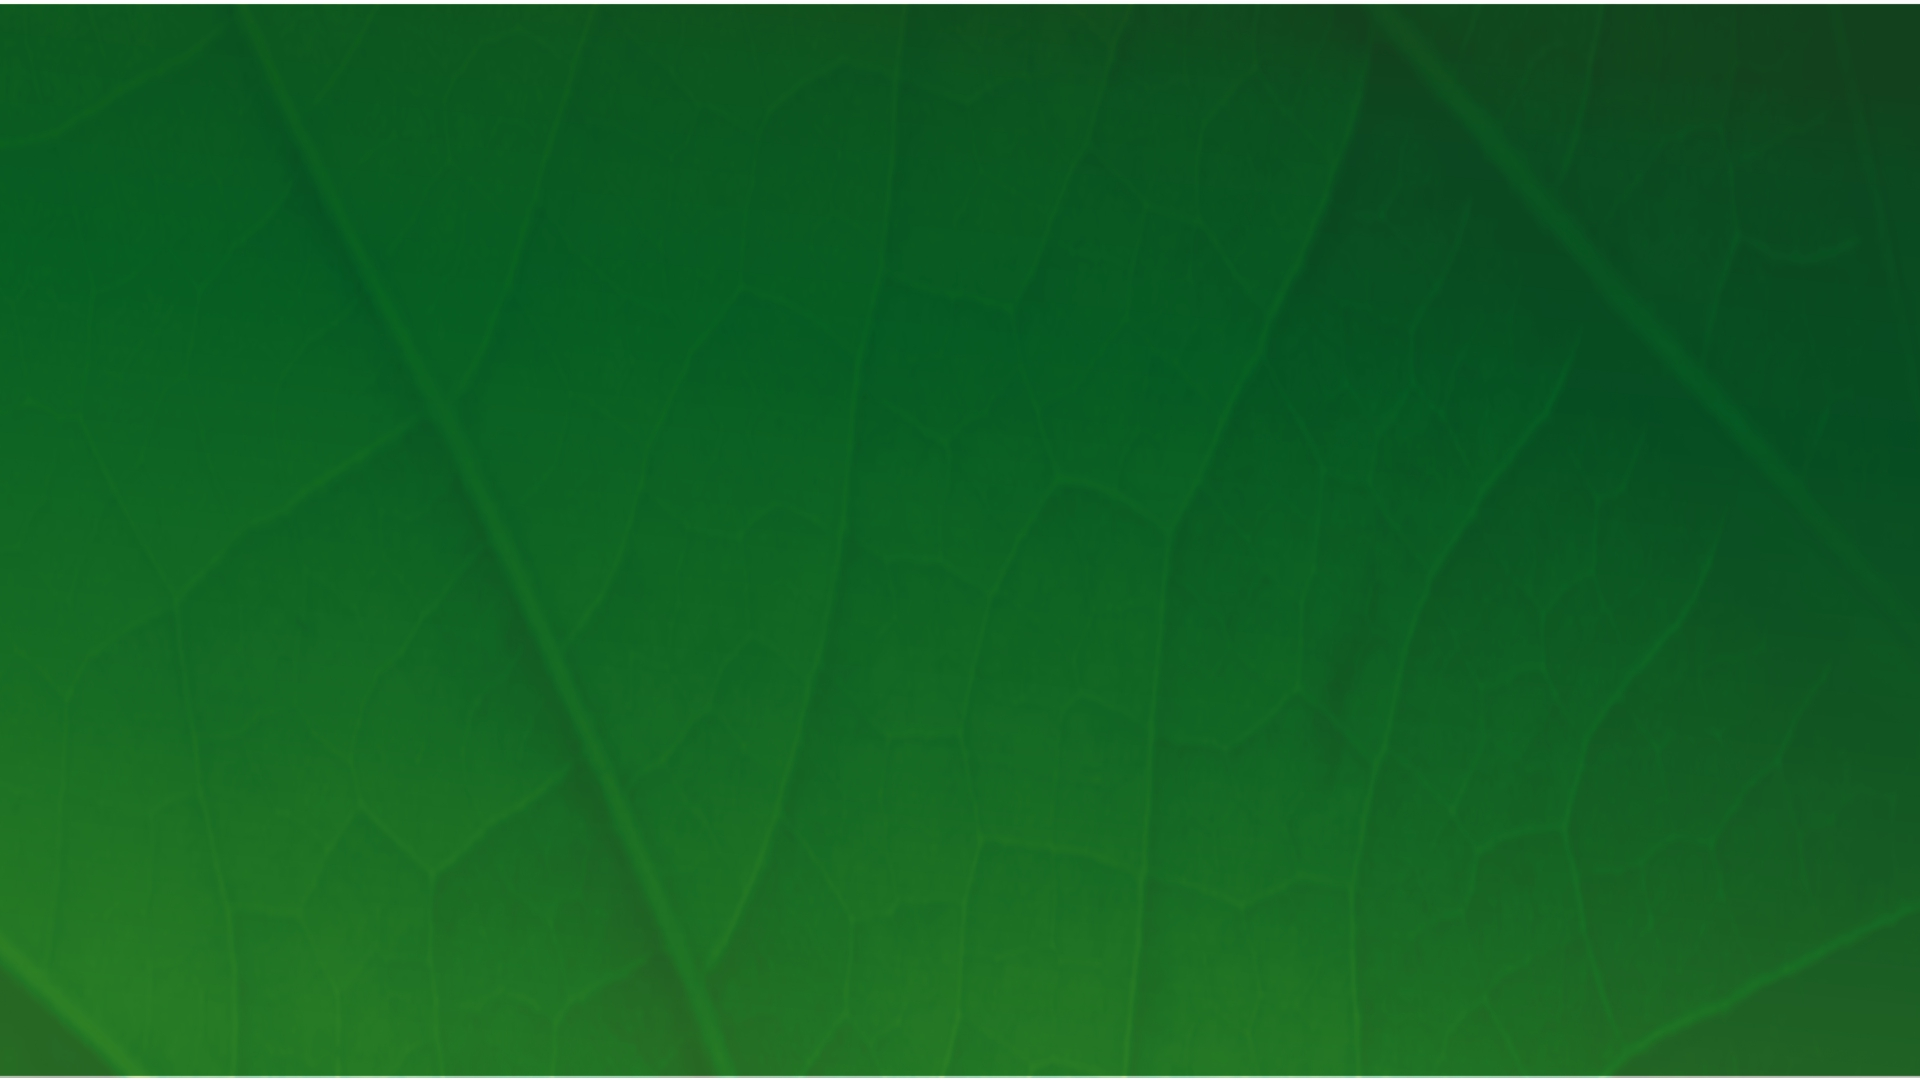
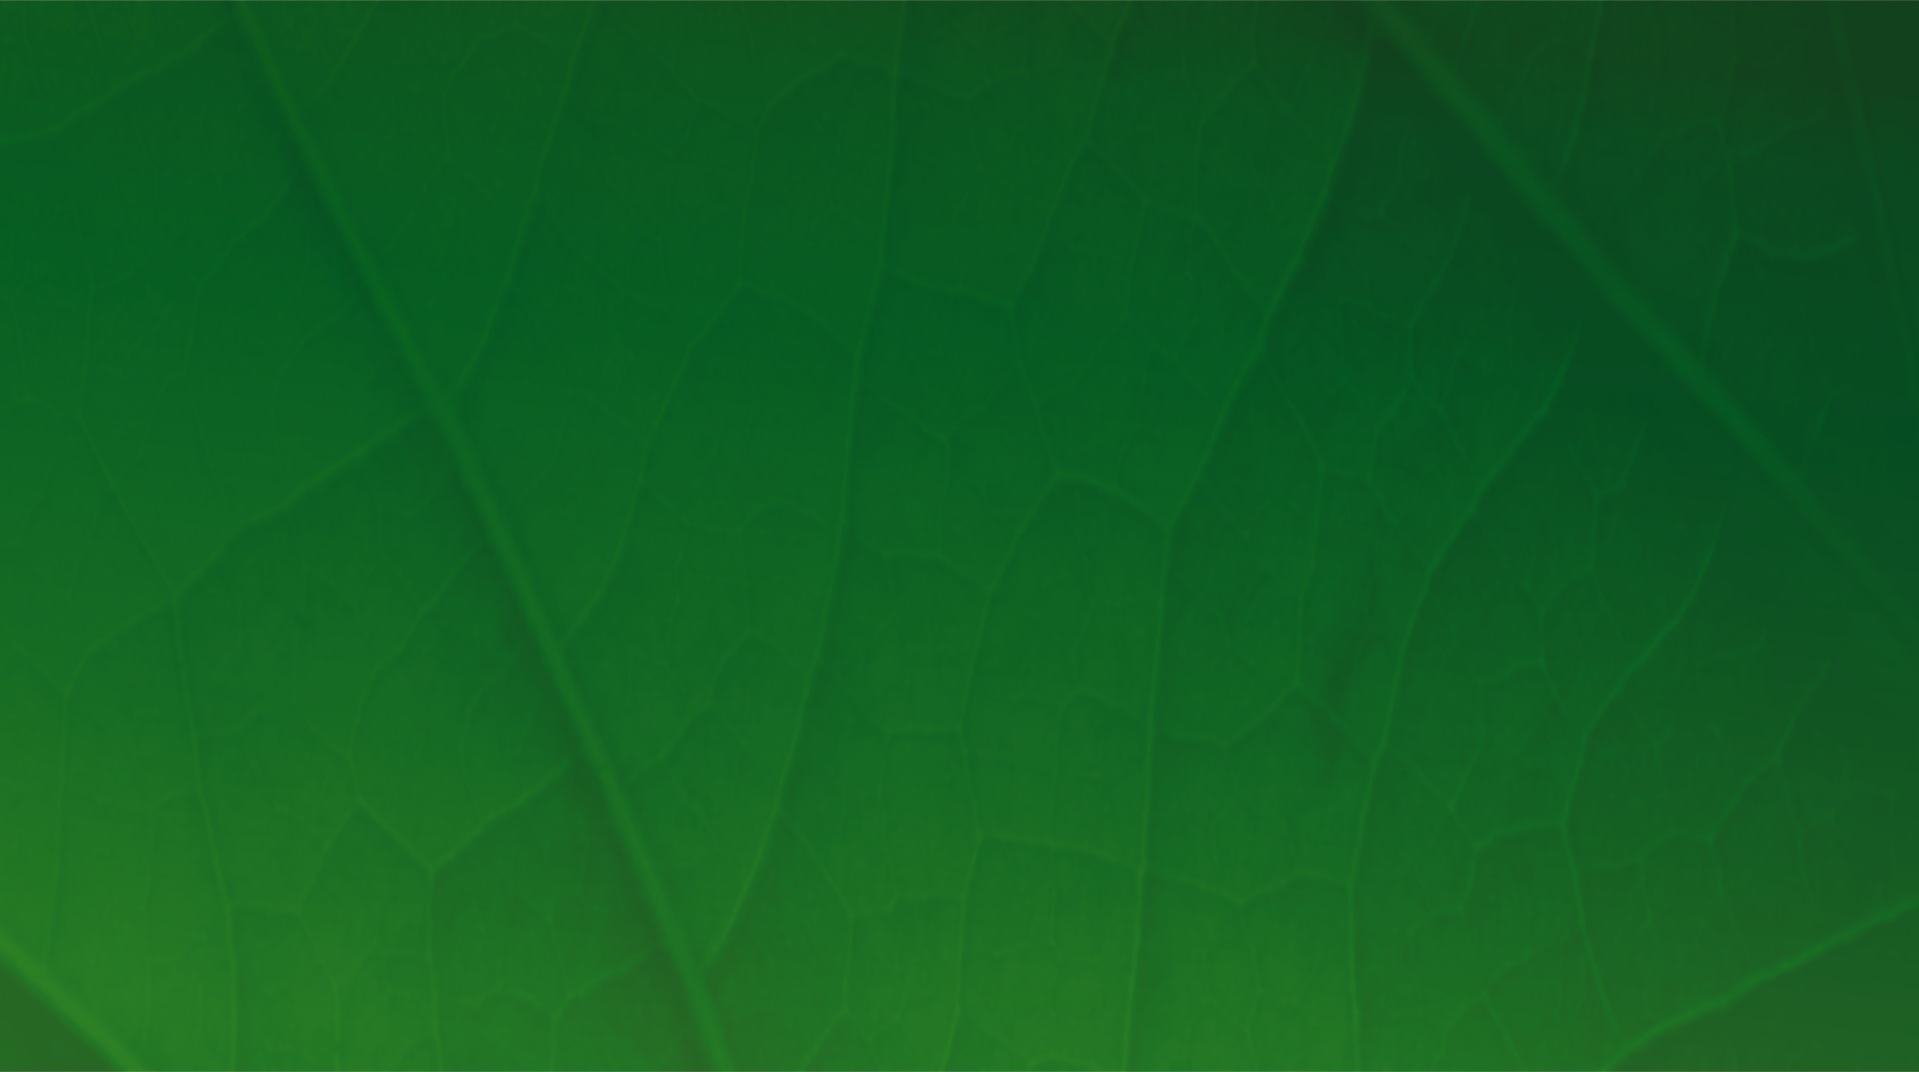
фон

Changed region(s): [[0.0, 0.9851, 1.0, 1.0], [0.0, 0.0, 1.0, 0.0308]]

diff --git a/css/style.css b/css/style.css
@@ -204,13 +204,18 @@ body {
 /* participation */
 /* exchange */
 .exchange {
-  background: rgba(10,66,39,1);
+  /* background: rgba(10,66,39,1);
   background: -moz-linear-gradient(top, rgba(10,66,39,1) 0%, rgba(0,117,63,1) 100%);
   background: -webkit-gradient(left top, left bottom, color-stop(0%, rgba(10,66,39,1)), color-stop(100%, rgba(0,117,63,1)));
   background: -webkit-linear-gradient(top, rgba(10,66,39,1) 0%, rgba(0,117,63,1) 100%);
   background: -o-linear-gradient(top, rgba(10,66,39,1) 0%, rgba(0,117,63,1) 100%);
   background: -ms-linear-gradient(top, rgba(10,66,39,1) 0%, rgba(0,117,63,1) 100%);
-  background: linear-gradient(to bottom, rgba(10,66,39,1) 0%, rgba(0,117,63,1) 100%);
+  background: linear-gradient(to bottom, rgba(10,66,39,1) 0%, rgba(0,117,63,1) 100%); */
+  background-blend-mode: multiply;
+  background: rgba(0, 0, 0, 0.3);
+  background-image: url(../img/main-bk.jpg);
+  background-repeat: no-repeat;
+  background-position: top;
   padding: 5rem 0;
   color: #fff;
 }
